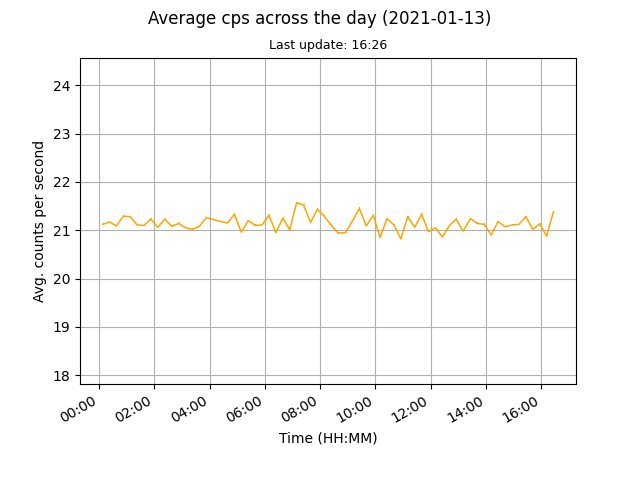
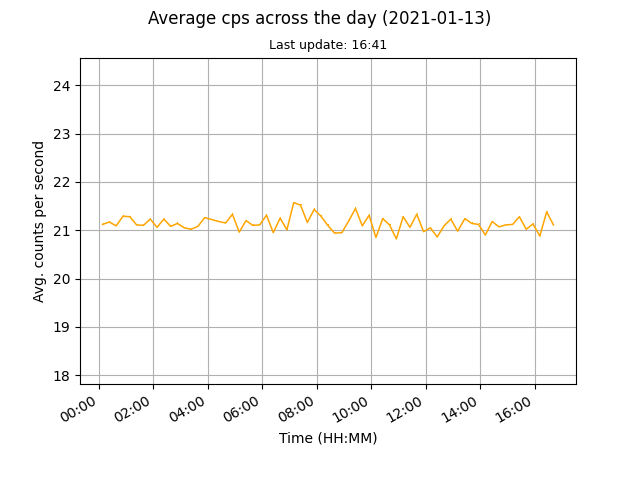
auto data update

diff --git a/docs/index.html b/docs/index.html
@@ -45,8 +45,8 @@
 	
 	<br>
 	
-	<p>Current counts per second (cps): 21.38</p>
-	<p>Last update: 2021-01-13, 16:26</p>
+	<p>Current counts per second (cps): 21.11</p>
+	<p>Last update: 2021-01-13, 16:41</p>
 
 	<p><a href="images/monthly.png"><img src="images/monthly.png" alt="Mothly avg cps data"></a><a href="images/daily.png"><img src="images/daily.png" alt="Daily avg cps data"></a></p>
 	
